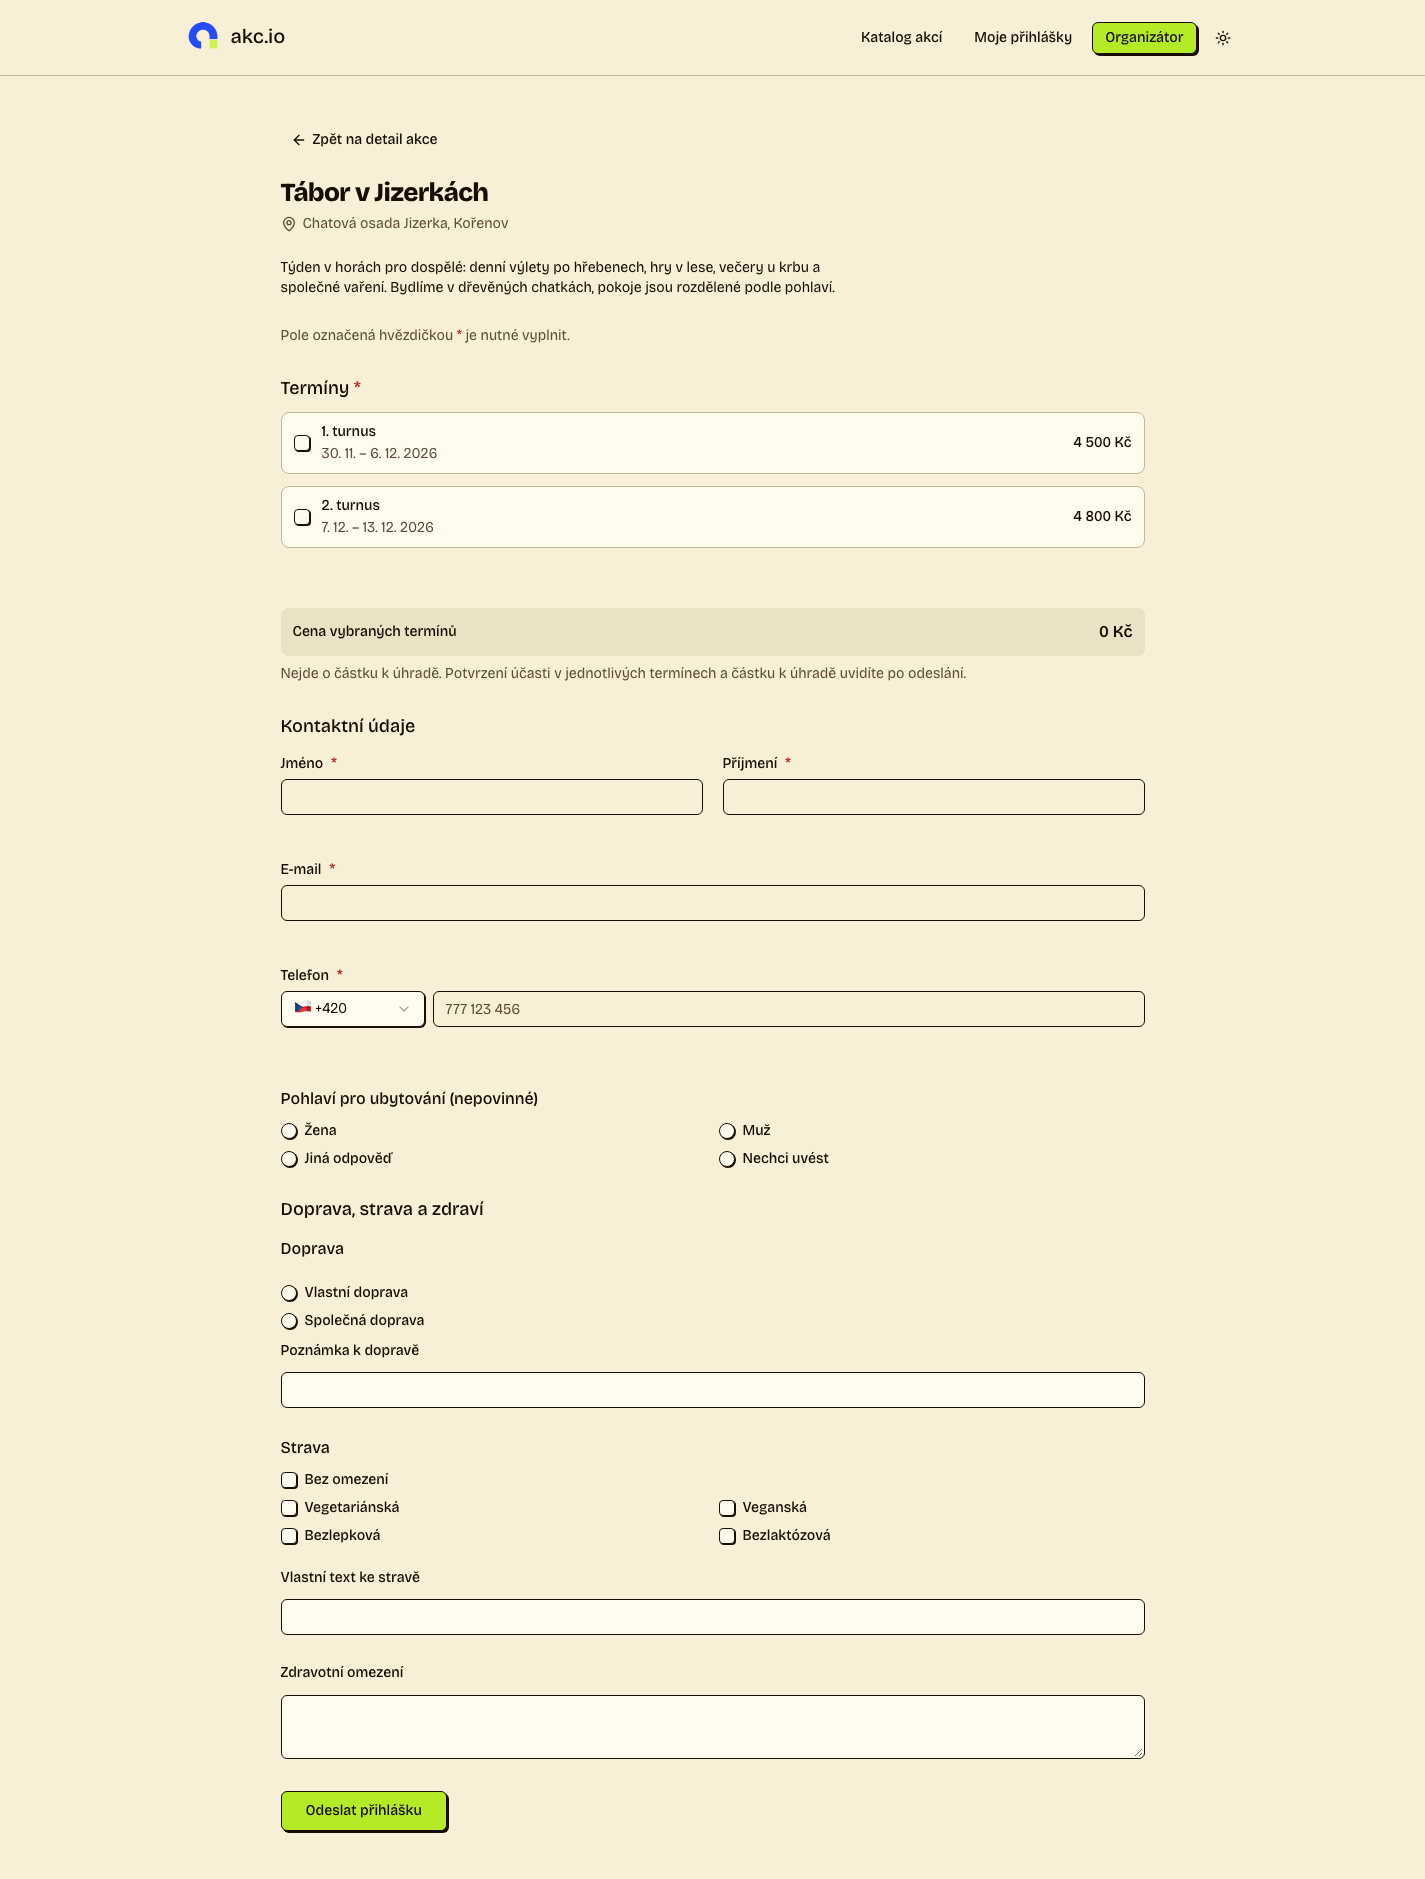
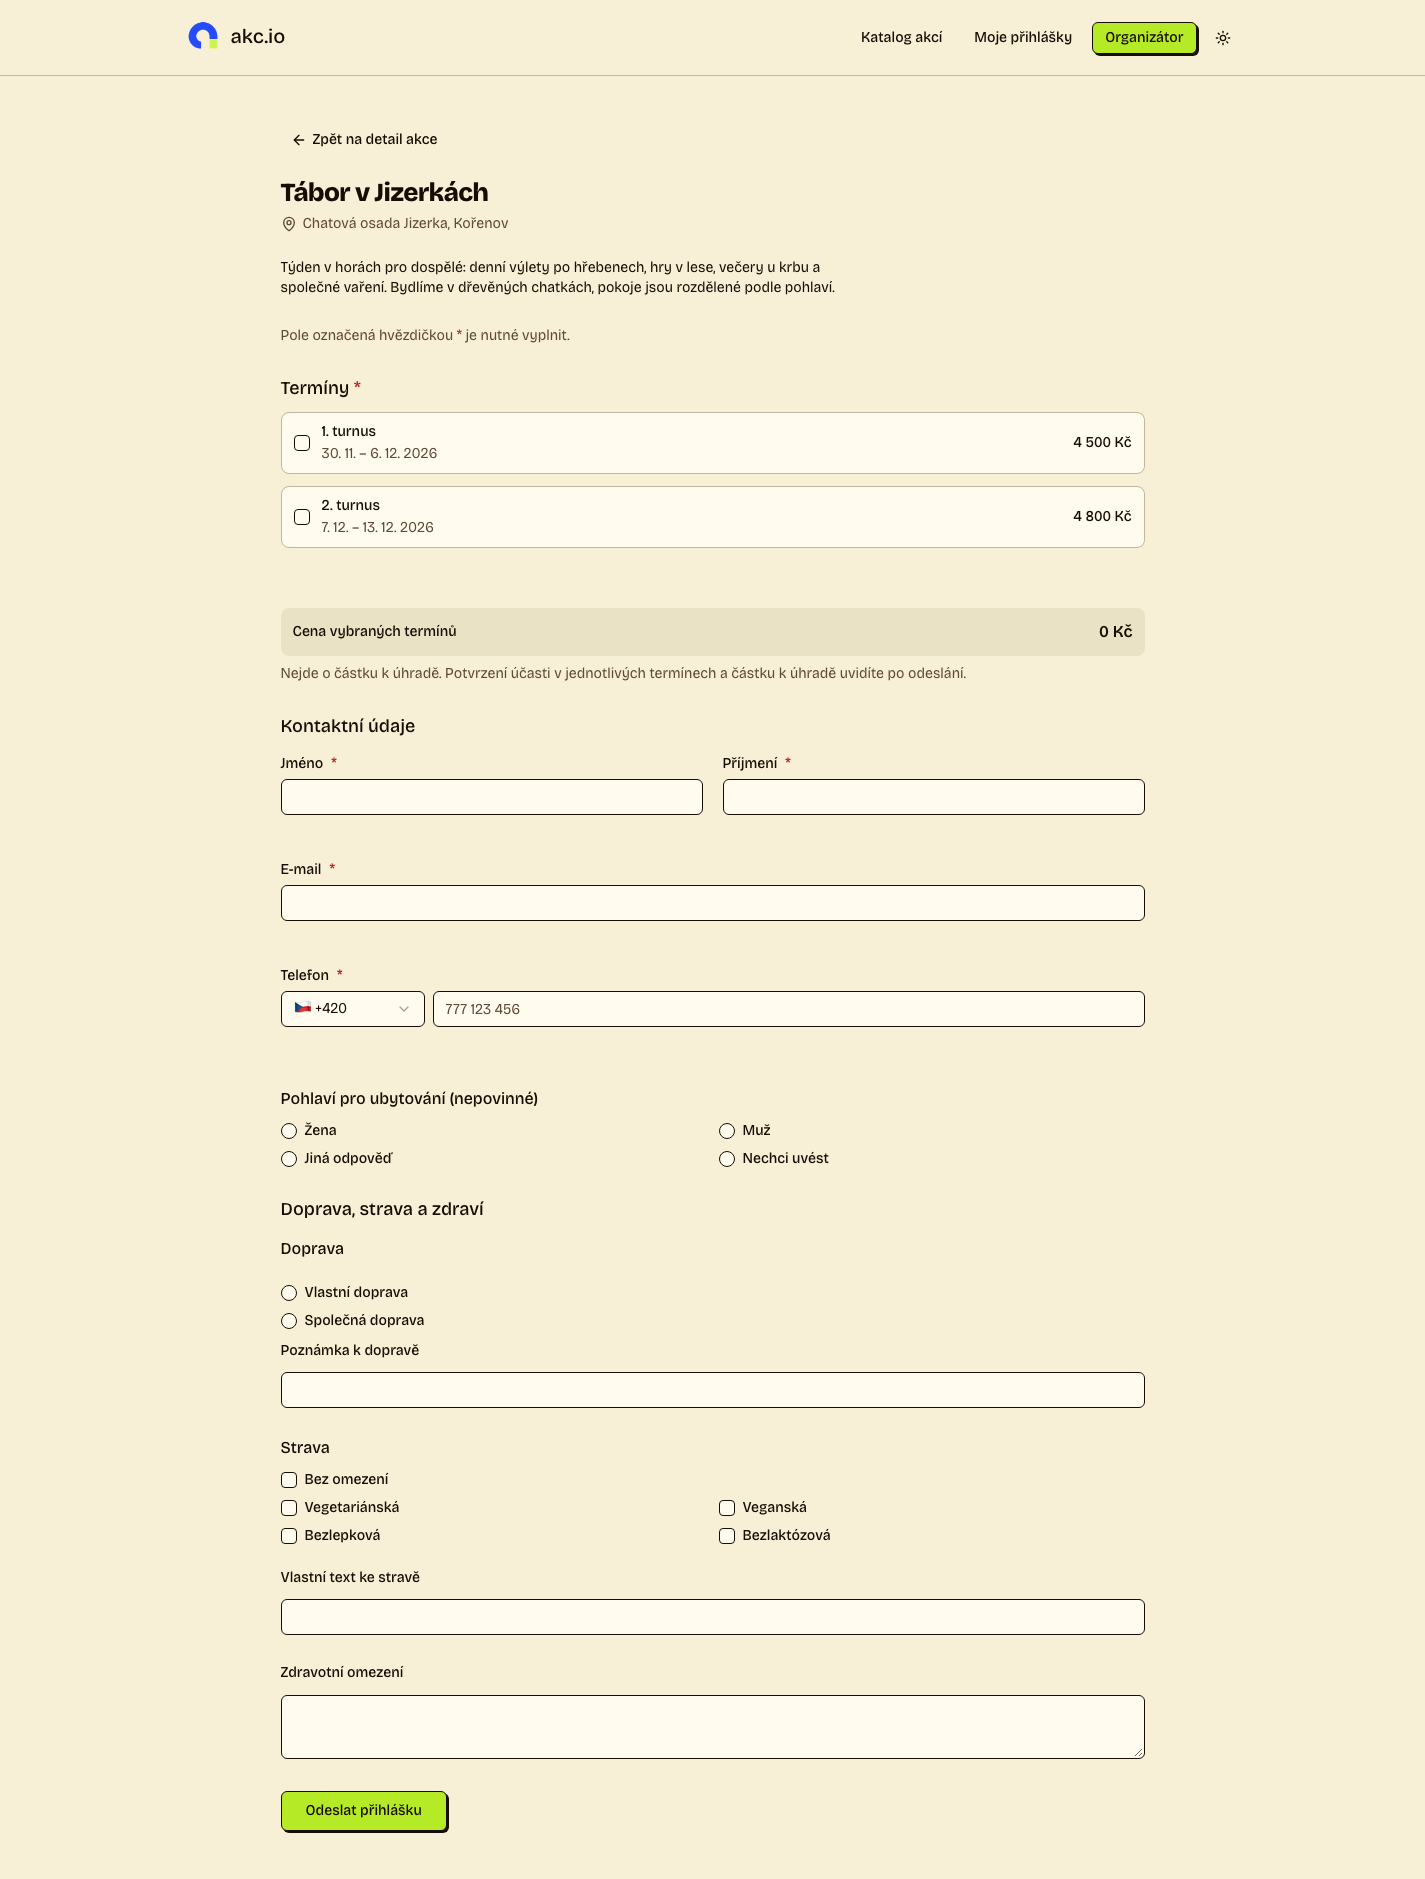
fix(ui): the same surface and no shadow on every form field (S3-T5)
Fields inside FormControl carry data-slot="form-control", so the light-mode
card surface and the 1.5 px outline missed them: Jméno, Příjmení, E-mail and
Telefon stayed transparent on the page. The rules now match them too. Selects,
radios and checkboxes lose the kit's shadow-xs, which drew a hard ink shadow
the text inputs do not have; focus and invalid rings stay.

Changed region(s): [[0.1853, 0.463, 0.8028, 0.4939], [0.1853, 0.4013, 0.8028, 0.4321], [0.2779, 0.5247, 0.8028, 0.5556]]

diff --git a/apps/frontend/src/styles/global.css b/apps/frontend/src/styles/global.css
@@ -196,13 +196,18 @@
    component itself and must win over the kit's neutral border utilities. Focus and invalid
    states keep their own colours. Badges keep their default 1px border.
    A button is matched by its variant and size, not by data-slot: as a trigger (`DialogTrigger
-   asChild` and the like) its data-slot becomes the trigger's, and it would lose the shape. */
+   asChild` and the like) its data-slot becomes the trigger's, and it would lose the shape. A form
+   field inside `FormControl` likewise carries data-slot="form-control" instead of its own. */
 [data-slot="card"],
 [data-variant][data-size]:not([data-variant="ghost"]):not([data-variant="link"]),
-:is([data-slot="input"], [data-slot="textarea"], [data-slot="select-trigger"]):not(
-  :focus-visible,
-  [aria-invalid="true"]
-) {
+:is(
+  [data-slot="input"],
+  [data-slot="textarea"],
+  [data-slot="select-trigger"],
+  input[data-slot="form-control"],
+  textarea[data-slot="form-control"],
+  [data-slot="form-control"][role="combobox"]
+):not(:focus-visible, [aria-invalid="true"]) {
   border-width: 1.5px;
   border-color: var(--input);
 }
@@ -219,6 +224,21 @@
 [data-variant][data-size]:not([data-variant="ghost"]):not([data-variant="link"]) {
   box-shadow: var(--shadow-sm);
 }
+/* Form fields have an outline and no shadow, all alike: the kit's `shadow-xs` on selects, radios
+   and checkboxes would draw a hard ink shadow the text inputs do not have. Focus and invalid
+   rings are box shadows too and stay. */
+:is(
+  [data-slot="input"],
+  [data-slot="textarea"],
+  [data-slot="select-trigger"],
+  [data-slot="radio-group-item"],
+  [data-slot="checkbox"],
+  input[data-slot="form-control"],
+  textarea[data-slot="form-control"],
+  [data-slot="form-control"]:is([role="combobox"], [role="radio"], [role="checkbox"])
+):not(:focus-visible, [aria-invalid="true"]) {
+  box-shadow: none;
+}
 /* In light mode form fields take the card surface, so they stand out from the paper page the way
    the filled fields of the dark theme do. On a card they keep its surface. */
 :root:not(.dark)
@@ -227,7 +247,14 @@
     [data-slot="textarea"],
     [data-slot="select-trigger"],
     [data-slot="radio-group-item"],
-    [data-slot="checkbox"]:not([data-state="checked"])
+    [data-slot="checkbox"]:not([data-state="checked"]),
+    input[data-slot="form-control"],
+    textarea[data-slot="form-control"],
+    [data-slot="form-control"]:is(
+      [role="combobox"],
+      [role="radio"],
+      [role="checkbox"]:not([data-state="checked"])
+    )
   ) {
   background-color: var(--card);
 }
